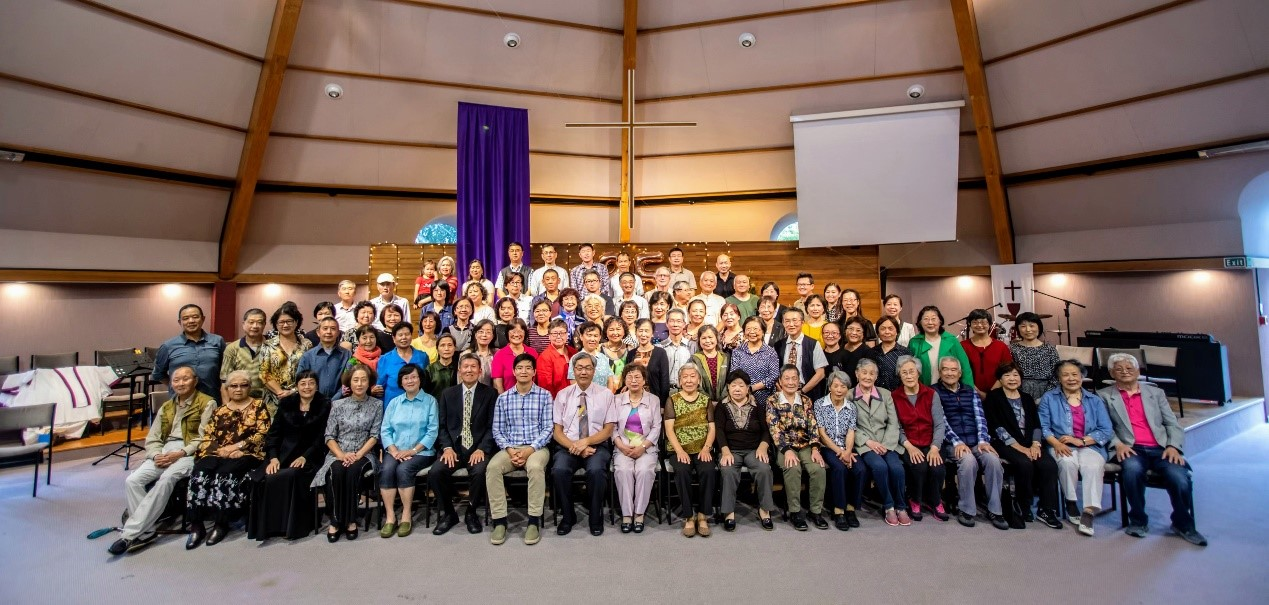
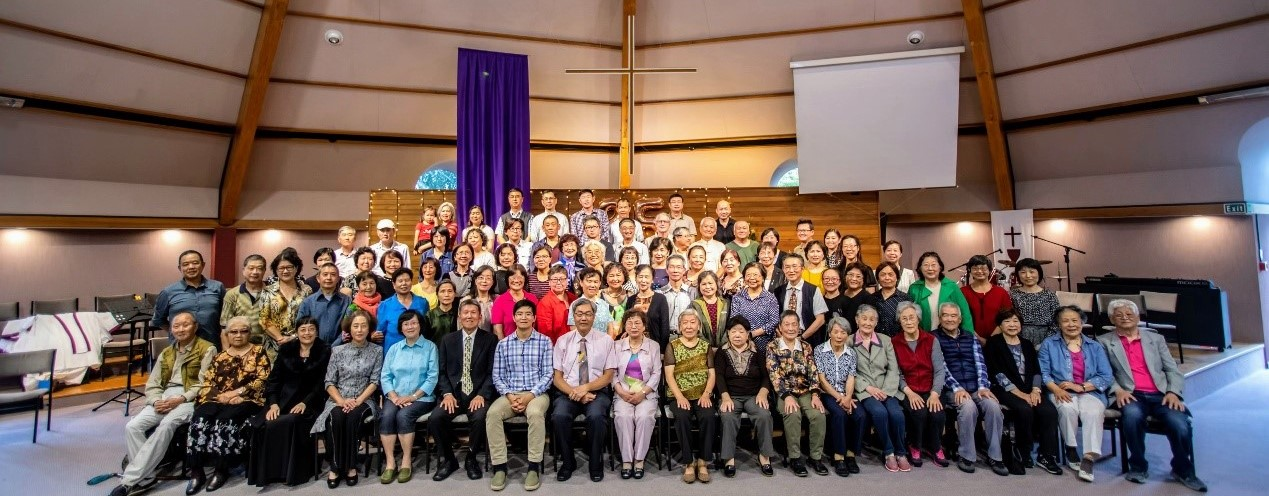
Added the rest of the home page

diff --git a/src/Home.tsx b/src/Home.tsx
@@ -1,12 +1,18 @@
-import React from 'react';
+import React, {useContext} from 'react';
 import './App.css';
 import {Box, Typography} from "@mui/material";
+import {Map, Today} from "@mui/icons-material";
+import InfoCard from "./components/InfoCard";
+import {Language, LanguageContext} from "./App";
 
 function Home() {
+  const language = useContext(LanguageContext);
+
   return (
-    <div className="App">
-      <Box sx={{width:"100%", display: "flex", justifyContent: "center", position: "relative"}}>
-        <img src={require("./static/images/background pic.jpg")} style={{width:"100%", margin: "1rem", filter: "brightness(75%)"}}
+    <div className="App" style={{padding: "1rem"}}>
+      <Box sx={{width:"100%", display: "flex", justifyContent: "center", position: "relative", overflow: "hidden"
+      }}>
+        <img src={require("./static/images/background pic.jpg")} style={{width: "100%", height: "auto", filter: "brightness(75%)"}}
              alt="Photo of some members of our church"></img>
         <Box sx={{
           position: "absolute",
@@ -29,12 +35,112 @@ function Home() {
           </Typography>
         </Box>
       </Box>
-      <Box sx={{display: "flex", alignItems: "center", position: "relative", padding: "5rem",
-        flexDirection: "column"}}>
-        <Typography variant="h4" style={{marginTop: "2rem"}}>
-          Join us this Sunday
-        </Typography>
-        <img src={require("./static/images/sermon_1.png")} style={{width: "25rem", marginTop: "6rem"}} alt="Picture of a service"/>
+      <Box sx={{padding: "5rem", display: "flex", justifyContent: "center"}}>
+        <InfoCard sx={{maxWidth: "100%", overflow: "initial"}}>
+          <Typography variant="h4">
+            {language == Language.ENGLISH ? "Join us this Sunday" : "欢迎参加主日敬拜"}
+          </Typography>
+          <img
+            src={require("./static/images/sermon_1.png")}
+            style={{width: "25rem"}}
+            alt={language == Language.ENGLISH ? "Picture of a service" : "主日敬拜的照片"}
+          />
+
+          <Box sx={{
+            display: "flex",
+            gap: "3rem",
+            justifyContent: "center",
+            alignContent: "center",
+            width: "100%",
+            flexWrap: "wrap",
+            sm: {
+              color: "red"
+            }
+          }}>
+            <div style={{width: "220px", flexShrink: 0}}>
+              <Today style={{marginTop: "2rem", fontSize: "3rem"}}/>
+              <Typography variant="h6">
+                {language == Language.ENGLISH ? "2pm every Sunday" : "2pm 每周日"}
+              </Typography>
+            </div>
+
+            <a href="https://maps.app.goo.gl/CBTuM1yidHDhVBKH9"
+               target="_blank"
+               rel="noopener noreferrer"
+               style={{color: "black", textDecoration: "underline", flexShrink: 0}}
+            >
+              <Box sx={{width: "220px", textDecoration: "underline",
+                textDecorationColor: "transparent", transition: "0.2s ease-in-out",'&:hover':{textDecorationColor: "grey"}}}>
+                <Map sx={{marginTop: "2rem", fontSize: "3rem"}}/>
+                <Typography variant="h6">
+                  150 Withells Road,
+                </Typography>
+                <Typography variant="h6">
+                  Avonhead, Christchurch
+                </Typography>
+              </Box>
+            </a>
+
+            <div style={{width: "220px", flexShrink: 0}}>
+              <div style={{height: "48px", marginTop: "2rem", display: "flex",
+                justifyContent: "center",
+                alignItems: "center",}}>
+                <img src={require("./static/images/zoom1.png")} alt="Zoom logo"
+                     style={{height: "24px"}}/>
+              </div>
+              <Typography variant="h6">
+                534 361 6425
+              </Typography>
+            </div>
+          </Box>
+
+        </InfoCard>
+      </Box>
+      <Box sx={{padding: "5rem", display: "flex", justifyContent: "center"}}>
+        <Box sx={{gap: "3rem"}}>
+          <Typography variant="h4">
+            {language == Language.ENGLISH ? "Group Services" : "团契敬拜"}
+          </Typography>
+
+          <Box sx={{display: "flex", gap: "3rem", marginTop: "3rem", flexWrap: "wrap", justifyContent: "center"}}>
+            <div style={{width: "350px", display: "flex", flexDirection: "column", alignItems: "center"}}>
+              <img src={require("./static/images/list_sunday_school_img 1.png")} alt="Zoom logo" style={{height: "200px", marginBottom: "1.5rem"}}/>
+              <Typography variant="h6">
+                {language == Language.ENGLISH ? "Sunday School" : "主日学"}
+              </Typography>
+              <Typography variant="h6">
+                {language == Language.ENGLISH ? "Sunday 2pm" : "周日 2pm"}
+              </Typography>
+            </div>
+
+            <div style={{width: "350px", display: "flex", flexDirection: "column", alignItems: "center"}}>
+              <img src={require("./static/images/list_youth_group_img 1.png")} alt="Zoom logo" style={{height: "200px", marginBottom: "1.5rem"}}/>
+              <Typography variant="h6">
+                {language == Language.ENGLISH ? "Young Adult Group" : "社青团契"}
+              </Typography>
+              <Typography variant="h6">
+                {language == Language.ENGLISH ? "Saturday 7:30pm" : "周六 7：30pm"}
+              </Typography>
+              <Typography variant="h6">
+                &
+              </Typography>
+              <Typography variant="h6">
+                {language == Language.ENGLISH ? "Student Group" : "学生团契"}
+              </Typography>
+              <Typography variant="h6">
+                {language == Language.ENGLISH ? "Saturday 5pm" : "周六 5pm"}
+              </Typography>
+            </div>
+
+            <div style={{width: "350px", display: "flex", flexDirection: "column", alignItems: "center"}}>
+              <img src={require("./static/images/list_family_group_img 1.png")} alt="Zoom logo" style={{height: "200px", marginBottom: "1.5rem"}}/>
+              <Typography variant="h6">
+                {language == Language.ENGLISH ? "Family Group" : "新枝小组"}
+              </Typography>
+            </div>
+          </Box>
+
+        </Box>
       </Box>
     </div>
   );

diff --git a/src/Navbar.tsx b/src/Navbar.tsx
@@ -2,22 +2,54 @@ import React from 'react';
 import './App.css';
 import {AppBar, Box, Button, Toolbar, Typography} from "@mui/material";
 import {Language} from "@mui/icons-material";
+import {Language as LanguageEnum} from "./App";
 
-function Navbar() {
+interface NavbarProps {
+  language: LanguageEnum,
+  setLanguage: React.Dispatch<React.SetStateAction<LanguageEnum>>
+}
+
+function Navbar(props: NavbarProps) {
+  const {language, setLanguage} = props;
   return (
     <AppBar position="sticky" sx={{ height: "9rem", justifyContent: "start", padding: "2rem" }}>
       <Toolbar sx={{gap: "0.7rem"}}>
         <Box sx={{ height: "100%", display: 'flex', flexGrow: 1, flexDirection: "row", alignItems: "end" }}>
           <img src={require("./static/images/img.png")} alt="" style={{ height: "10ch" }}/>
-          <Typography component="div" sx={{ maxWidth: "18ch", textAlign: "left", fontFamily: "Rubik", fontSize: "1.2rem", lineHeight: "1.4rem" }}>
-            Canterbury Chinese Christian Church
-          </Typography>
+          <Box>
+            <Typography component="div" sx={{
+              maxWidth: "16ch",
+              textAlign: "left",
+              fontFamily: "Rubik",
+              fontSize: "1.2rem",
+              lineHeight: "1.4rem"
+            }}>
+              {language == LanguageEnum.ENGLISH ? "Canterbury Chinese" : "坎特伯利"}
+            </Typography>
+            <Typography component="div" sx={{
+              maxWidth: "16ch",
+              textAlign: "left",
+              fontFamily: "Rubik",
+              fontSize: "1.2rem",
+              lineHeight: "1.4rem"
+            }}>
+              {language == LanguageEnum.ENGLISH ? "Christian Church" : "华语基督教会"}
+            </Typography>
+          </Box>
         </Box>
-        <Button color="inherit" sx={{fontFamily: "Amiko"}}>HOME</Button>
-        <Button color="inherit" sx={{fontFamily: "Amiko"}}>ABOUT</Button>
-        <Button color="inherit" sx={{fontFamily: "Amiko"}}>RECORDINGS</Button>
-        <Button color="inherit" sx={{fontFamily: "Amiko"}}>FIND US</Button>
-        <Button color="inherit" sx={{backgroundColor: "#B7EAAF", margin: "2ch", paddingX: "3ch", minWidth: "12ch"}} ><Language style={{height: "1rem", width: "1rem"}}/>中文</Button>
+        <Button color="inherit" sx={{fontFamily: "Amiko"}}>{language == LanguageEnum.ENGLISH ? "HOME" : "主页"}</Button>
+        <Button color="inherit" sx={{fontFamily: "Amiko"}}>{language == LanguageEnum.ENGLISH ? "ABOUT" : "关于"}</Button>
+        <Button color="inherit" sx={{fontFamily: "Amiko"}}>{language == LanguageEnum.ENGLISH ? "RECORDINGS" : "录像"}</Button>
+        <Button color="inherit" sx={{fontFamily: "Amiko"}}>{language == LanguageEnum.ENGLISH ? "FIND US" : "地址"}</Button>
+        <Button
+          color="inherit"
+          sx={{backgroundColor: "#B7EAAF", margin: "2ch", paddingX: "3ch", minWidth: "12ch"}}
+          onClick={() => setLanguage(language == LanguageEnum.ENGLISH? LanguageEnum.CHINESE : LanguageEnum.ENGLISH)}
+        >
+          <Language style={{height: "1rem", width: "1rem"}}/>
+          {language == LanguageEnum.ENGLISH ? "中文" : "English"}
+
+        </Button>
       </Toolbar>
     </AppBar>
   );

diff --git a/src/App.tsx b/src/App.tsx
@@ -1,25 +1,56 @@
-import React from 'react';
-import logo from './logo.svg';
+import React, {useState} from 'react';
 import './App.css';
+import {createTheme, ThemeProvider} from "@mui/material";
+import Navbar from "./Navbar";
+import {createBrowserRouter, RouterProvider, redirect} from "react-router-dom";
+import Home from "./Home";
+
+
+const router = createBrowserRouter([
+  {
+    path: "/",
+    element: <Home/>
+  },
+  {
+    path: "*",
+    loader: () => {
+      return redirect('/');
+    }
+  }
+]);
+
+const theme = createTheme({
+  palette: {
+    primary: {
+      main: '#ffffff',
+      light: '#ffffff',
+      dark: '#ffffff',
+    },
+    secondary: {
+      main: "#ffffff"
+    }
+  },
+  typography: {
+    fontFamily: "Amiko"
+  }
+});
+
+export enum Language {
+  ENGLISH,
+  CHINESE
+}
+
+export const LanguageContext = React.createContext(Language.ENGLISH);
 
 function App() {
+  const [language, setLanguage] = useState(Language.ENGLISH);
   return (
-    <div className="App">
-      <header className="App-header">
-        <img src={logo} className="App-logo" alt="logo" />
-        <p>
-          Edit <code>src/App.tsx</code> and save to reload!!!
-        </p>
-        <a
-          className="App-link"
-          href="https://reactjs.org"
-          target="_blank"
-          rel="noopener noreferrer"
-        >
-          Learn React
-        </a>
-      </header>
-    </div>
+    <ThemeProvider theme={theme}>
+      <LanguageContext.Provider value={language}>
+        <Navbar language={language} setLanguage={setLanguage}/>
+        <RouterProvider router={router}/>
+      </LanguageContext.Provider>
+    </ThemeProvider>
   );
 }
 

diff --git a/src/index.tsx b/src/index.tsx
@@ -3,51 +3,16 @@ import ReactDOM from 'react-dom/client';
 import './index.css';
 import App from './App';
 import reportWebVitals from './reportWebVitals';
-import {
-  createBrowserRouter,
-  RouterProvider,
-} from "react-router-dom";
-import Home from "./Home";
-import {createTheme, ThemeProvider} from "@mui/material";
-import Navbar from "./Navbar";
 
-const router = createBrowserRouter([
-  {
-    path: "/",
-    element: <div>Hello world!</div>,
-  },
-  {
-    path: "/home",
-    element: <Home/>
-  },
-  {
-    path: "/secret",
-    element: <App/>
-  }
-]);
 
-const theme = createTheme({
-  palette: {
-    primary: {
-      main: '#ffffff',
-      light: '#ffffff',
-      dark: '#ffffff',
-    },
-    secondary: {
-      main: "#ffffff"
-    }
-  },
-});
 
 const root = ReactDOM.createRoot(
   document.getElementById('root') as HTMLElement
 );
+
 root.render(
   <React.StrictMode>
-    <ThemeProvider theme={theme}>
-      <Navbar/>
-      <RouterProvider router={router}/>
-    </ThemeProvider>
+    <App/>
   </React.StrictMode>
 );
 

diff --git a/src/components/InfoCard.tsx b/src/components/InfoCard.tsx
@@ -1,0 +1,14 @@
+import {Card, styled} from "@mui/material";
+
+const InfoCard = styled(Card)(() => ({
+  display: "flex", alignItems: "center", position: "relative", gap: "3rem",
+  flexDirection: "column", width: "fit-content", padding: "2rem",
+  borderRadius: "15px",
+  boxShadow: "0px 2px 14px -1px rgba(0,0,0,0.1), 0px 1px 1px 0px rgba(0,0,0,0.07), 0px 1px 3px 0px rgba(0,0,0,0.06)",
+
+  '&:hover': {
+    boxShadow: "0px 2px 14px -1px rgba(0,0,0,0.4), 0px 1px 1px 0px rgba(0,0,0,0.28), 0px 1px 3px 0px rgba(0,0,0,0.24)",
+  }
+}));
+
+export default InfoCard;
